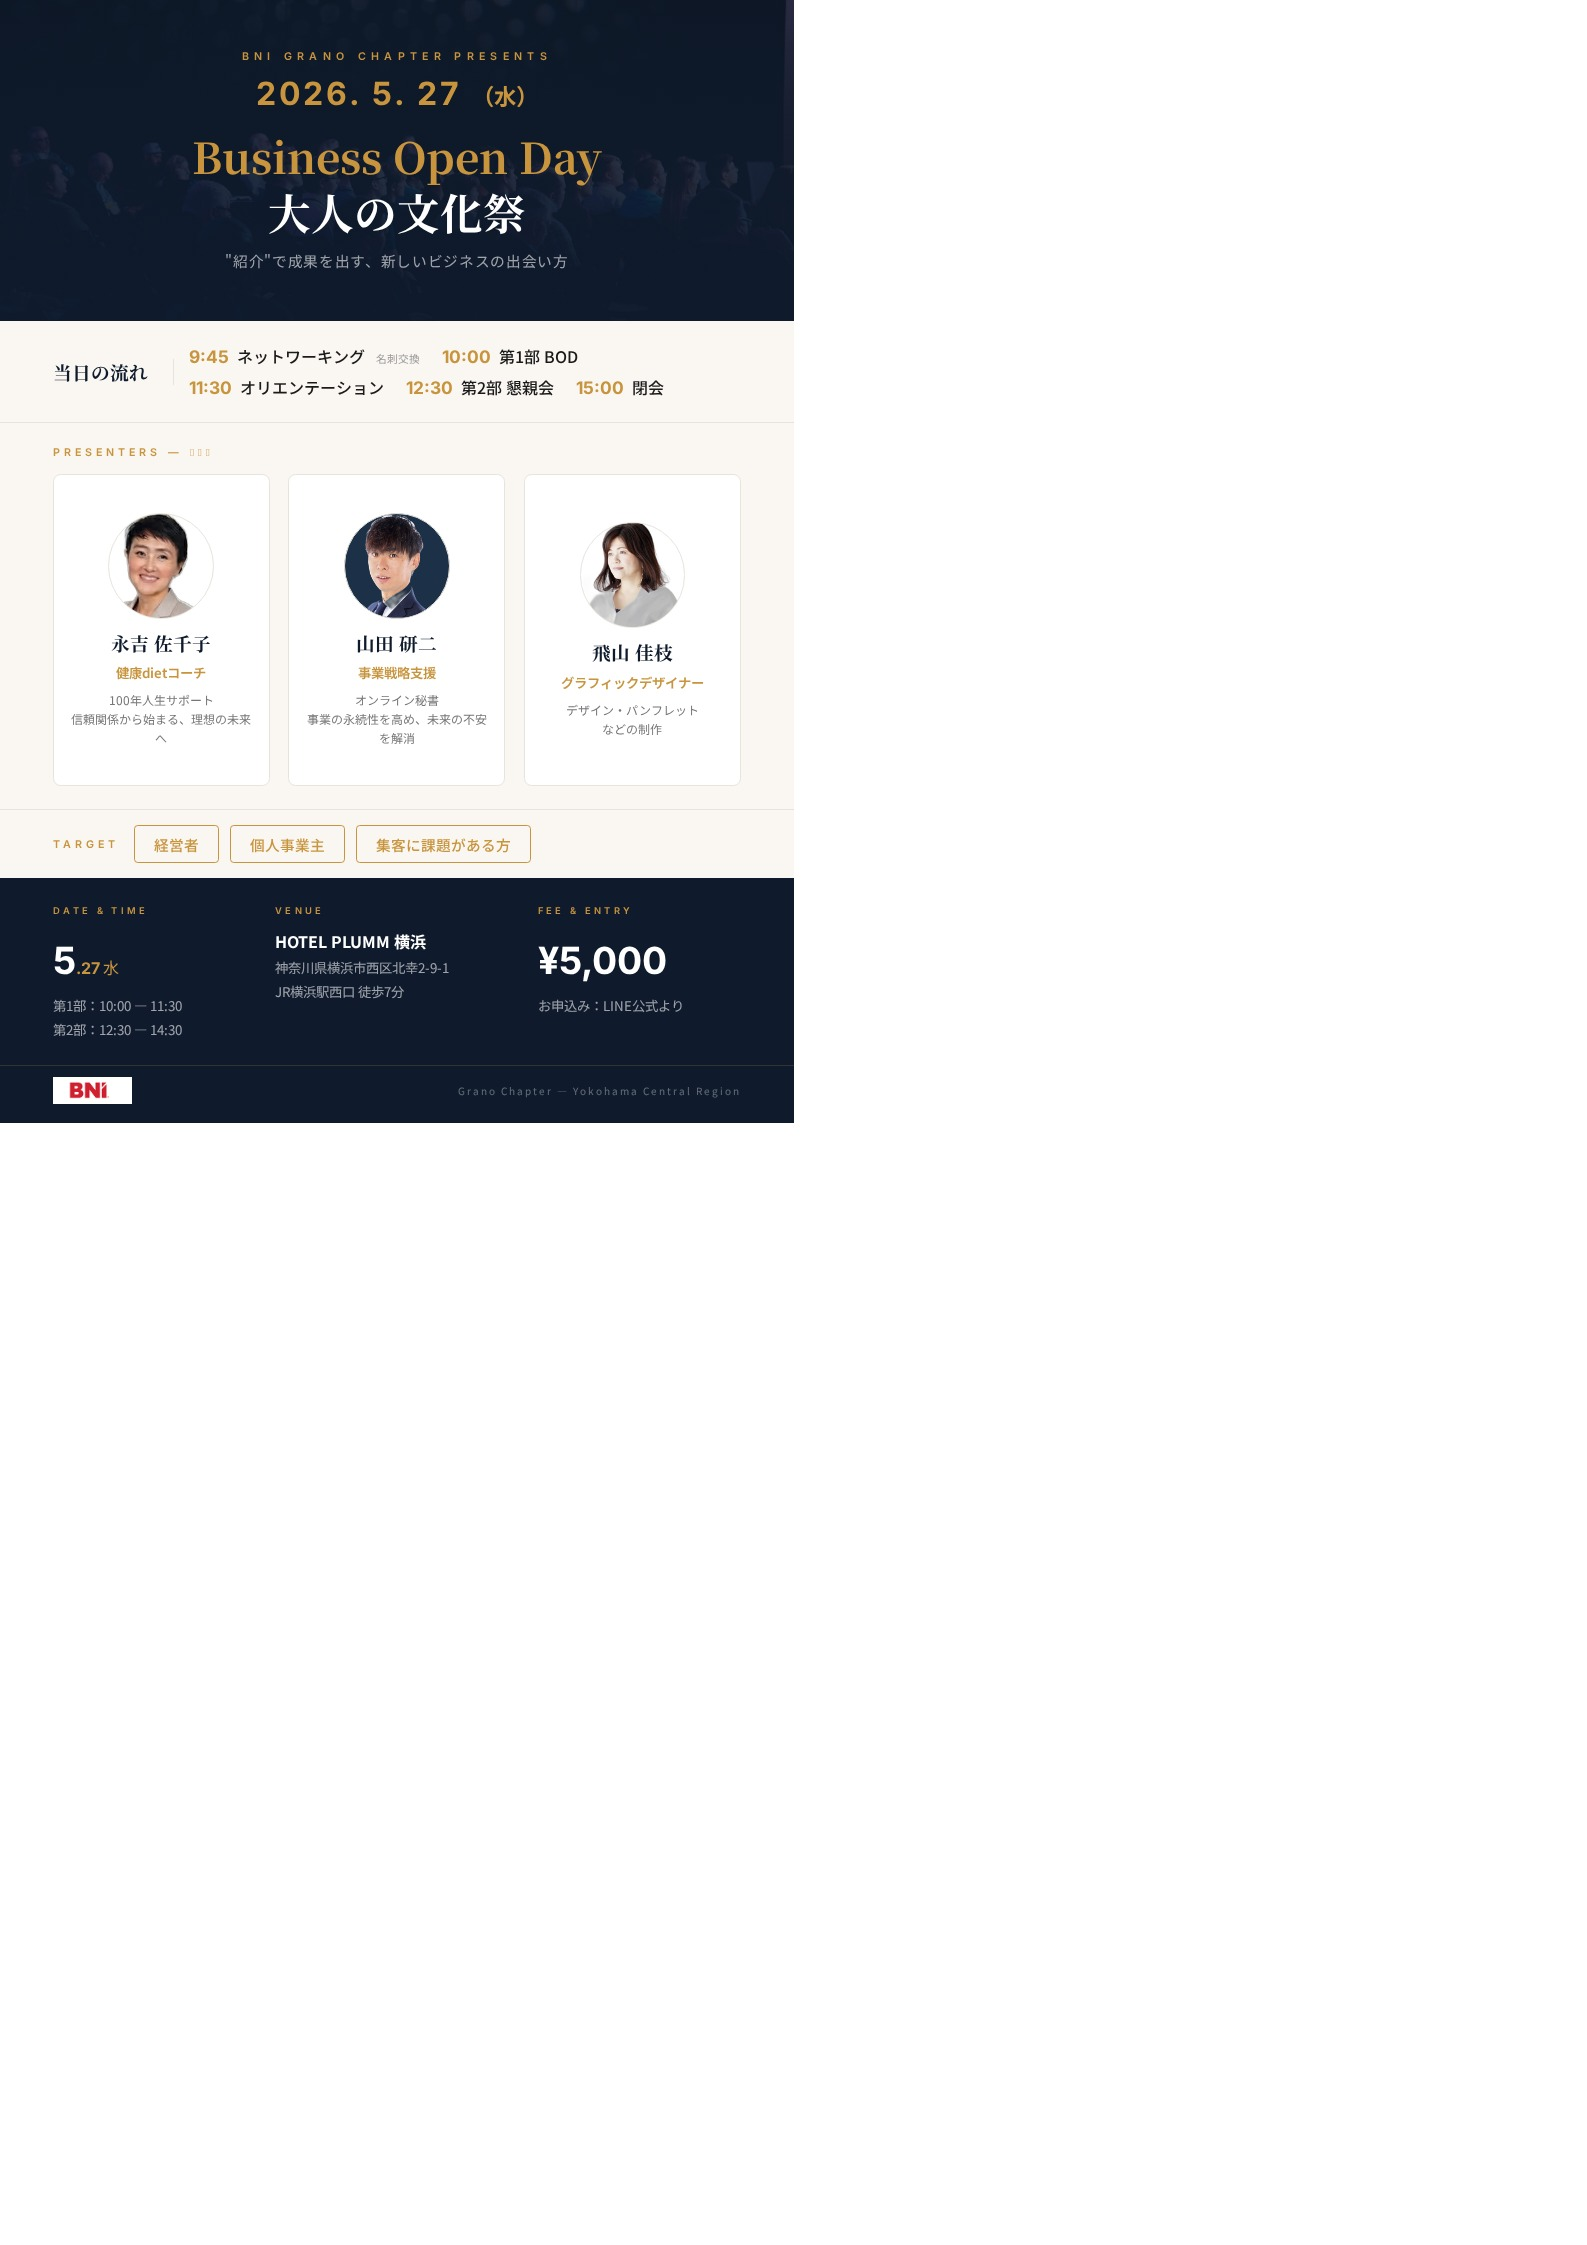
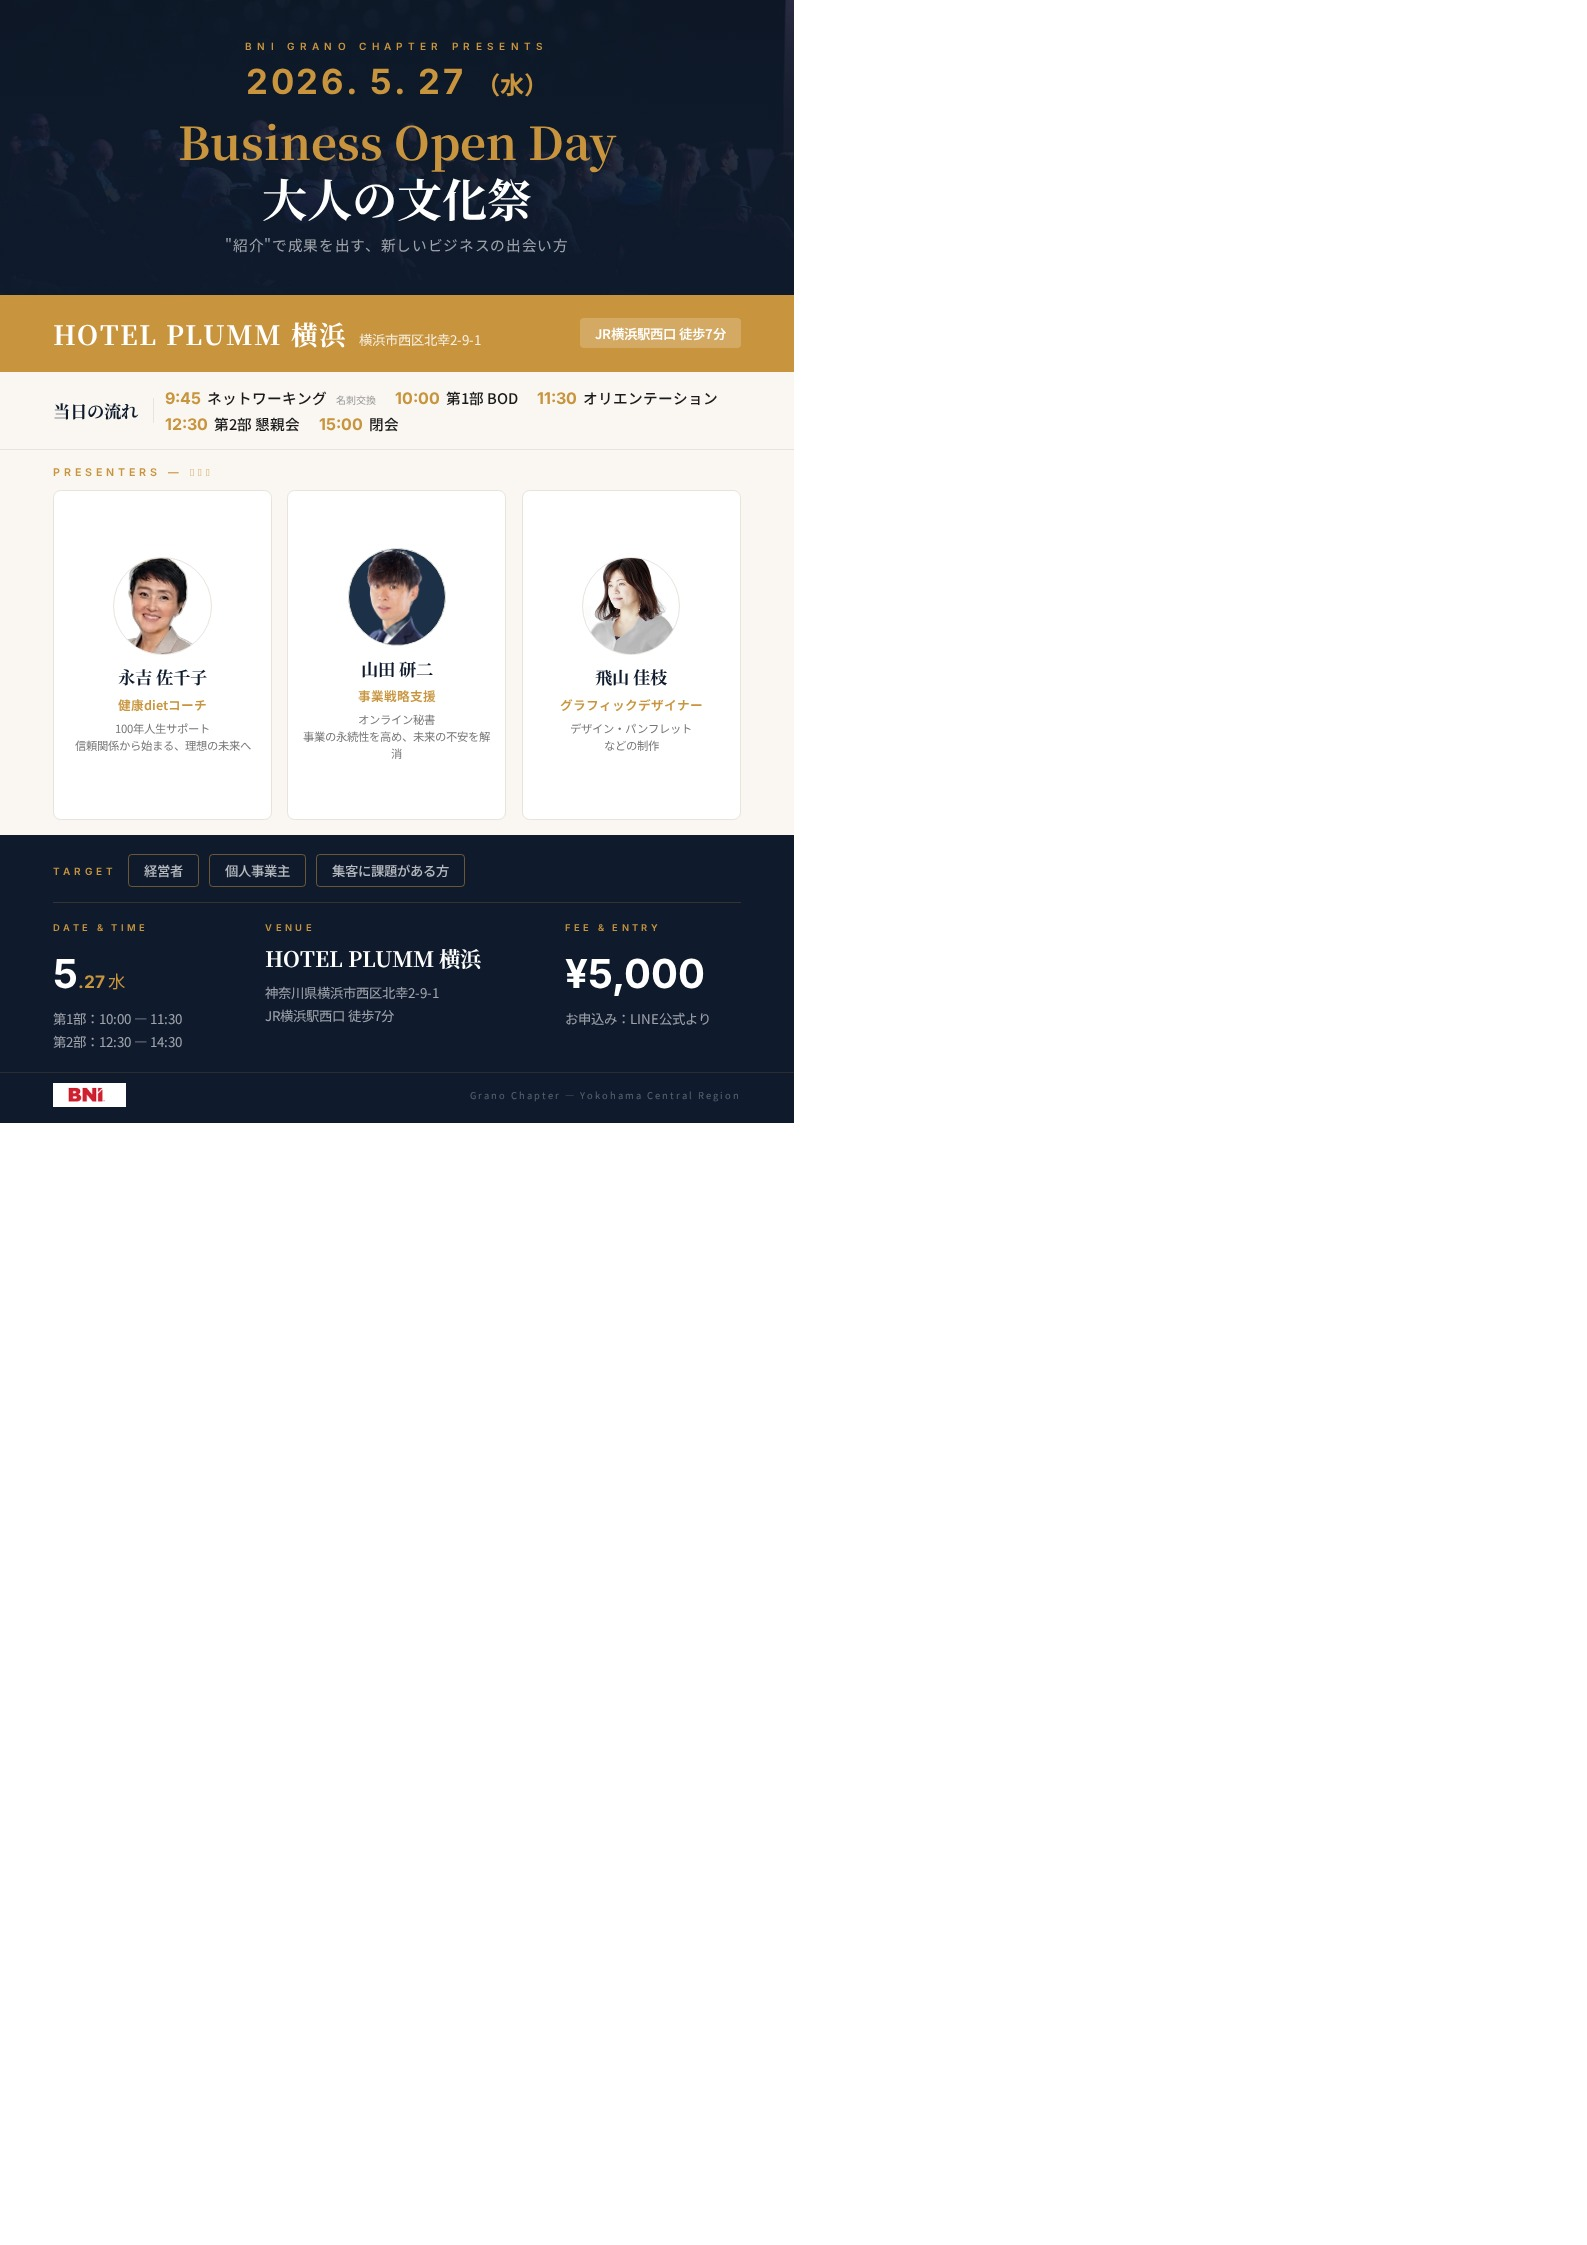
Flyer v2: venue band, reduced whitespace, larger text

Changed region(s): [[0.0, 0.0, 0.5249, 0.4989], [0.3705, 0.2183, 0.4323, 0.343]]

diff --git a/flyer_a4.html b/flyer_a4.html
@@ -16,90 +16,95 @@ html,body{width:210mm;height:297mm;margin:0;padding:0;overflow:hidden;
   display:flex;flex-direction:column;
 }
 
-/* === HERO — 85mm === */
+/* === HERO — 78mm === */
 .hero{
-  flex:0 0 85mm;position:relative;overflow:hidden;
+  flex:0 0 78mm;position:relative;overflow:hidden;
   display:flex;flex-direction:column;justify-content:center;align-items:center;text-align:center;
   background:#0F1B2D;color:#fff;
 }
 .hero-bg{position:absolute;inset:0;background:url('https://images.unsplash.com/photo-1540575467063-178a50c2df87?w=1400&q=80') center/cover;opacity:.22}
-.hero-grad{position:absolute;inset:0;background:linear-gradient(180deg,rgba(15,27,45,.15),rgba(15,27,45,.92))}
-.hero-c{position:relative;z-index:1;padding:0 15mm}
-.hero-pre{font-family:'Inter',sans-serif;font-size:8pt;font-weight:600;letter-spacing:4pt;text-transform:uppercase;color:#C8943E;margin-bottom:3mm}
-.hero-date{font-family:'Inter',sans-serif;font-size:24pt;font-weight:700;letter-spacing:2pt;color:#C8943E;margin-bottom:4mm}
-.hero h1{font-family:'Noto Serif JP',serif;font-size:32pt;font-weight:700;line-height:1.3;margin-bottom:3mm}
+.hero-grad{position:absolute;inset:0;background:linear-gradient(180deg,rgba(15,27,45,.1),rgba(15,27,45,.92))}
+.hero-c{position:relative;z-index:1;padding:0 12mm}
+.hero-pre{font-family:'Inter',sans-serif;font-size:7.5pt;font-weight:600;letter-spacing:4pt;text-transform:uppercase;color:#C8943E;margin-bottom:2mm}
+.hero-date{font-family:'Inter',sans-serif;font-size:26pt;font-weight:700;letter-spacing:2pt;color:#C8943E;margin-bottom:3mm}
+.hero h1{font-family:'Noto Serif JP',serif;font-size:34pt;font-weight:700;line-height:1.25;margin-bottom:2mm}
 .hero h1 em{font-style:normal;color:#C8943E}
 .hero-sub{font-size:11pt;color:rgba(255,255,255,.6);letter-spacing:.5pt}
 
-/* === SCHEDULE BAND — warm bg === */
+/* === VENUE BAND — amber accent === */
+.venue-band{
+  flex:0 0 auto;
+  background:#C8943E;color:#fff;
+  padding:5mm 14mm;
+  display:flex;align-items:center;justify-content:space-between;
+}
+.venue-band .vb-main{display:flex;align-items:baseline;gap:3mm}
+.venue-band .vb-name{font-family:'Noto Serif JP',serif;font-size:20pt;font-weight:700;letter-spacing:1pt}
+.venue-band .vb-addr{font-size:10pt;color:rgba(255,255,255,.85)}
+.venue-band .vb-access{font-size:10pt;font-weight:600;background:rgba(255,255,255,.2);padding:1.5mm 4mm;border-radius:1mm}
+
+/* === SCHEDULE — compact row === */
 .sched{
   flex:0 0 auto;
-  background:#FAF7F2;padding:6mm 14mm;
-  display:flex;align-items:center;gap:4mm;
+  background:#FAF7F2;padding:4mm 14mm;
+  display:flex;align-items:center;gap:3mm;
   border-bottom:0.3mm solid #E8E4DD;
 }
 .sched-label{
-  font-family:'Noto Serif JP',serif;font-size:14pt;font-weight:700;color:#0F1B2D;
-  white-space:nowrap;padding-right:5mm;border-right:0.3mm solid #E8E4DD;
-  min-width:32mm;
+  font-family:'Noto Serif JP',serif;font-size:13pt;font-weight:700;color:#0F1B2D;
+  white-space:nowrap;padding-right:4mm;border-right:0.3mm solid #E8E4DD;
 }
-.sched-items{display:flex;flex-wrap:wrap;gap:2mm 6mm;flex:1}
-.s-item{display:flex;gap:2mm;align-items:baseline}
-.s-time{font-family:'Inter',sans-serif;font-size:13pt;font-weight:700;color:#C8943E}
-.s-name{font-size:12pt;font-weight:500;color:#1A1A1A}
-.s-note{font-size:8pt;color:#999;margin-left:1mm}
+.sched-items{display:flex;flex-wrap:wrap;gap:1.5mm 5mm;flex:1}
+.s-item{display:flex;gap:1.5mm;align-items:baseline}
+.s-time{font-family:'Inter',sans-serif;font-size:12pt;font-weight:700;color:#C8943E}
+.s-name{font-size:11pt;font-weight:500;color:#1A1A1A}
+.s-note{font-size:7.5pt;color:#999;margin-left:1mm}
 
-/* === PRESENTERS — large cards === */
+/* === PRESENTERS — horizontal row === */
 .pres{
-  flex:1;background:#FAF7F2;padding:6mm 14mm;
+  flex:1;background:#FAF7F2;padding:4mm 14mm;
   display:flex;flex-direction:column;
 }
 .pres-head{
   font-family:'Inter',sans-serif;font-size:8pt;font-weight:600;letter-spacing:3pt;
-  text-transform:uppercase;color:#C8943E;margin-bottom:4mm;
+  text-transform:uppercase;color:#C8943E;margin-bottom:3mm;
 }
-.pres-grid{display:flex;gap:5mm;flex:1}
+.pres-grid{display:flex;gap:4mm;flex:1}
 .p-card{
   flex:1;background:#fff;border:0.3mm solid #E8E4DD;border-radius:2mm;
   display:flex;flex-direction:column;align-items:center;justify-content:center;
-  padding:5mm 4mm;text-align:center;
+  padding:4mm 3mm;text-align:center;
 }
-.p-img{width:28mm;height:28mm;border-radius:50%;object-fit:cover;object-position:center 20%;border:0.5mm solid #E8E4DD;margin-bottom:3mm}
-.p-name{font-family:'Noto Serif JP',serif;font-size:14pt;font-weight:700;color:#0F1B2D;margin-bottom:2mm}
-.p-role{font-size:10pt;color:#C8943E;font-weight:600;margin-bottom:2mm}
-.p-desc{font-size:9pt;color:#777;line-height:1.6}
+.p-img{width:26mm;height:26mm;border-radius:50%;object-fit:cover;object-position:center 20%;border:0.5mm solid #E8E4DD;margin-bottom:2.5mm}
+.p-name{font-family:'Noto Serif JP',serif;font-size:13pt;font-weight:700;color:#0F1B2D;margin-bottom:1.5mm}
+.p-role{font-size:9.5pt;color:#C8943E;font-weight:600;margin-bottom:1.5mm}
+.p-desc{font-size:8.5pt;color:#777;line-height:1.5}
 
-/* === TARGET — thin band === */
-.target{
-  flex:0 0 auto;background:#FAF7F2;padding:4mm 14mm;
-  display:flex;align-items:center;gap:4mm;
-  border-top:0.3mm solid #E8E4DD;
+/* === TARGET + INFO — combined dark section === */
+.bottom{
+  flex:0 0 auto;background:#0F1B2D;color:#fff;
+  padding:5mm 14mm;
 }
-.target-label{font-family:'Inter',sans-serif;font-size:8pt;font-weight:600;letter-spacing:3pt;text-transform:uppercase;color:#C8943E;white-space:nowrap}
-.target-tags{display:flex;gap:3mm;flex-wrap:wrap}
-.t-tag{padding:2mm 5mm;border:0.3mm solid #C8943E;font-size:11pt;color:#C8943E;font-weight:500;border-radius:1mm}
+.target-row{display:flex;align-items:center;gap:3mm;margin-bottom:5mm;padding-bottom:4mm;border-bottom:0.3mm solid rgba(200,148,62,.2)}
+.target-label{font-family:'Inter',sans-serif;font-size:7.5pt;font-weight:600;letter-spacing:3pt;text-transform:uppercase;color:#C8943E;white-space:nowrap}
+.target-tags{display:flex;gap:2.5mm;flex-wrap:wrap}
+.t-tag{padding:1.5mm 4mm;border:0.3mm solid rgba(200,148,62,.5);font-size:10pt;color:rgba(255,255,255,.7);font-weight:500;border-radius:1mm}
 
-/* === BOTTOM INFO — dark, large === */
-.info{
-  flex:0 0 auto;padding:7mm 14mm 6mm;
-  background:#0F1B2D;color:#fff;
-  display:grid;grid-template-columns:1fr 1.2fr 1fr;gap:5mm;
-  align-items:start;
-}
-.info-col h5{font-family:'Inter',sans-serif;font-size:7pt;font-weight:600;letter-spacing:2.5pt;text-transform:uppercase;color:#C8943E;margin-bottom:3mm}
-.info-col p{font-size:10pt;line-height:1.8;color:rgba(255,255,255,.6)}
-.info-col .num{font-family:'Inter',sans-serif;font-size:28pt;font-weight:700;color:#fff}
-.info-col .num-s{font-size:12pt;color:#C8943E}
-.info-col strong{color:#fff;font-size:12pt}
+.info-row{display:grid;grid-template-columns:0.9fr 1.3fr 0.8fr;gap:4mm;align-items:start}
+.info-col h5{font-family:'Inter',sans-serif;font-size:7pt;font-weight:600;letter-spacing:2.5pt;text-transform:uppercase;color:#C8943E;margin-bottom:2mm}
+.info-col p{font-size:10pt;line-height:1.7;color:rgba(255,255,255,.6)}
+.info-col .num{font-family:'Inter',sans-serif;font-size:30pt;font-weight:700;color:#fff}
+.info-col .num-s{font-size:13pt;color:#C8943E}
+.info-col .venue-name{font-family:'Noto Serif JP',serif;font-size:16pt;font-weight:700;color:#fff;display:block;margin-bottom:1.5mm}
 
 /* === FOOTER === */
 .foot{
   flex:0 0 auto;display:flex;justify-content:space-between;align-items:center;
-  padding:3mm 14mm 5mm;background:#0F1B2D;
-  border-top:0.3mm solid rgba(200,148,62,.2);
+  padding:2.5mm 14mm 4mm;background:#0F1B2D;
+  border-top:0.3mm solid rgba(200,148,62,.15);
 }
-.foot img{height:7mm}
-.foot span{font-size:7.5pt;color:rgba(255,255,255,.35);letter-spacing:1.5pt}
+.foot img{height:6.5mm}
+.foot span{font-size:7pt;color:rgba(255,255,255,.3);letter-spacing:1.5pt}
 </style>
 <meta property="og:type" content="website"><meta property="og:url" content="https://resta0715.github.io/grano-event/flyer_a4.html"><meta property="og:title" content="Business Open Day 2026 Flyer｜BNI Grano Chapter"><meta property="og:description" content="BNI Grano Chapter主催 Business Open Day 2026。2026.5.27(水) HOTEL PLUMM横浜にて開催。"><meta property="og:image" content="https://resta0715.github.io/grano-event/ogp_announcement.jpg"><meta property="og:image:width" content="1200"><meta property="og:image:height" content="630"><meta property="og:site_name" content="BNI Grano Chapter"><meta property="og:locale" content="ja_JP"><meta name="twitter:card" content="summary_large_image"><meta name="twitter:title" content="Business Open Day 2026 Flyer｜BNI Grano Chapter"><meta name="twitter:description" content="BNI Grano Chapter主催 Business Open Day 2026。2026.5.27(水) HOTEL PLUMM横浜にて開催。"><meta name="twitter:image" content="https://resta0715.github.io/grano-event/ogp_announcement.jpg"><meta name="description" content="BNI Grano Chapter主催 Business Open Day 2026。2026.5.27(水) HOTEL PLUMM横浜にて開催。">
 </head>
@@ -115,6 +120,14 @@ html,body{width:210mm;height:297mm;margin:0;padding:0;overflow:hidden;
       <h1><em>Business Open Day</em><br>大人の文化祭</h1>
       <p class="hero-sub">"紹介"で成果を出す、新しいビジネスの出会い方</p>
     </div>
+  </div>
+
+  <div class="venue-band">
+    <div class="vb-main">
+      <span class="vb-name">HOTEL PLUMM 横浜</span>
+      <span class="vb-addr">横浜市西区北幸2-9-1</span>
+    </div>
+    <span class="vb-access">JR横浜駅西口 徒歩7分</span>
   </div>
 
   <div class="sched">
@@ -152,27 +165,28 @@ html,body{width:210mm;height:297mm;margin:0;padding:0;overflow:hidden;
     </div>
   </div>
 
-  <div class="target">
-    <span class="target-label">Target</span>
-    <div class="target-tags">
-      <span class="t-tag">経営者</span>
-      <span class="t-tag">個人事業主</span>
-      <span class="t-tag">集客に課題がある方</span>
+  <div class="bottom">
+    <div class="target-row">
+      <span class="target-label">Target</span>
+      <div class="target-tags">
+        <span class="t-tag">経営者</span>
+        <span class="t-tag">個人事業主</span>
+        <span class="t-tag">集客に課題がある方</span>
+      </div>
     </div>
-  </div>
-
-  <div class="info">
-    <div class="info-col">
-      <h5>Date &amp; Time</h5>
-      <p><span class="num">5<span class="num-s">.27</span></span> <span class="num-s">水</span><br>第1部：10:00 — 11:30<br>第2部：12:30 — 14:30</p>
-    </div>
-    <div class="info-col">
-      <h5>Venue</h5>
-      <p><strong>HOTEL PLUMM 横浜</strong><br>神奈川県横浜市西区北幸2-9-1<br>JR横浜駅西口 徒歩7分</p>
-    </div>
-    <div class="info-col">
-      <h5>Fee &amp; Entry</h5>
-      <p><span class="num">¥5,000</span><br>お申込み：LINE公式より</p>
+    <div class="info-row">
+      <div class="info-col">
+        <h5>Date &amp; Time</h5>
+        <p><span class="num">5<span class="num-s">.27</span></span> <span class="num-s">水</span><br>第1部：10:00 — 11:30<br>第2部：12:30 — 14:30</p>
+      </div>
+      <div class="info-col">
+        <h5>Venue</h5>
+        <p><span class="venue-name">HOTEL PLUMM 横浜</span>神奈川県横浜市西区北幸2-9-1<br>JR横浜駅西口 徒歩7分</p>
+      </div>
+      <div class="info-col">
+        <h5>Fee &amp; Entry</h5>
+        <p><span class="num">¥5,000</span><br>お申込み：LINE公式より</p>
+      </div>
     </div>
   </div>
 
